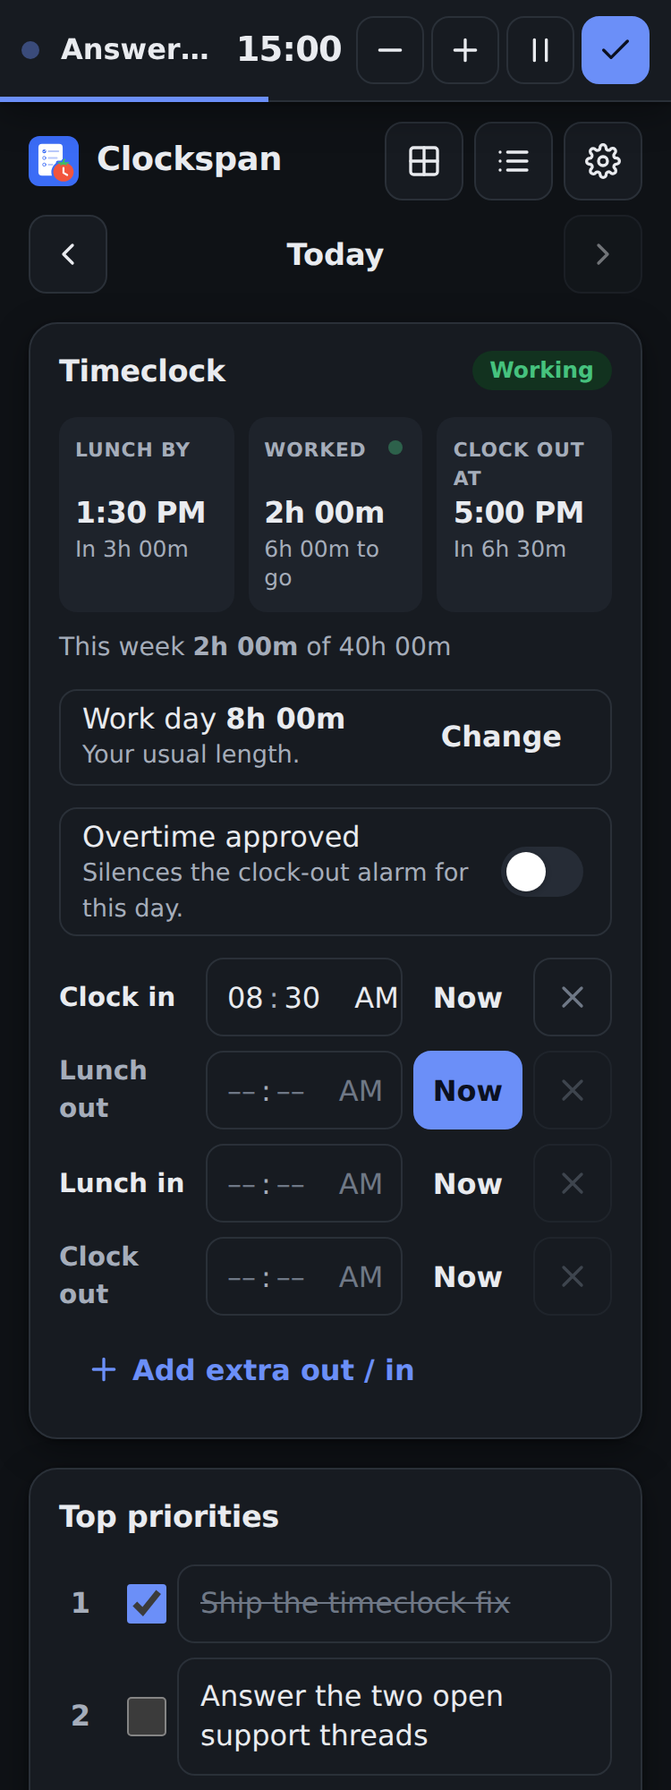
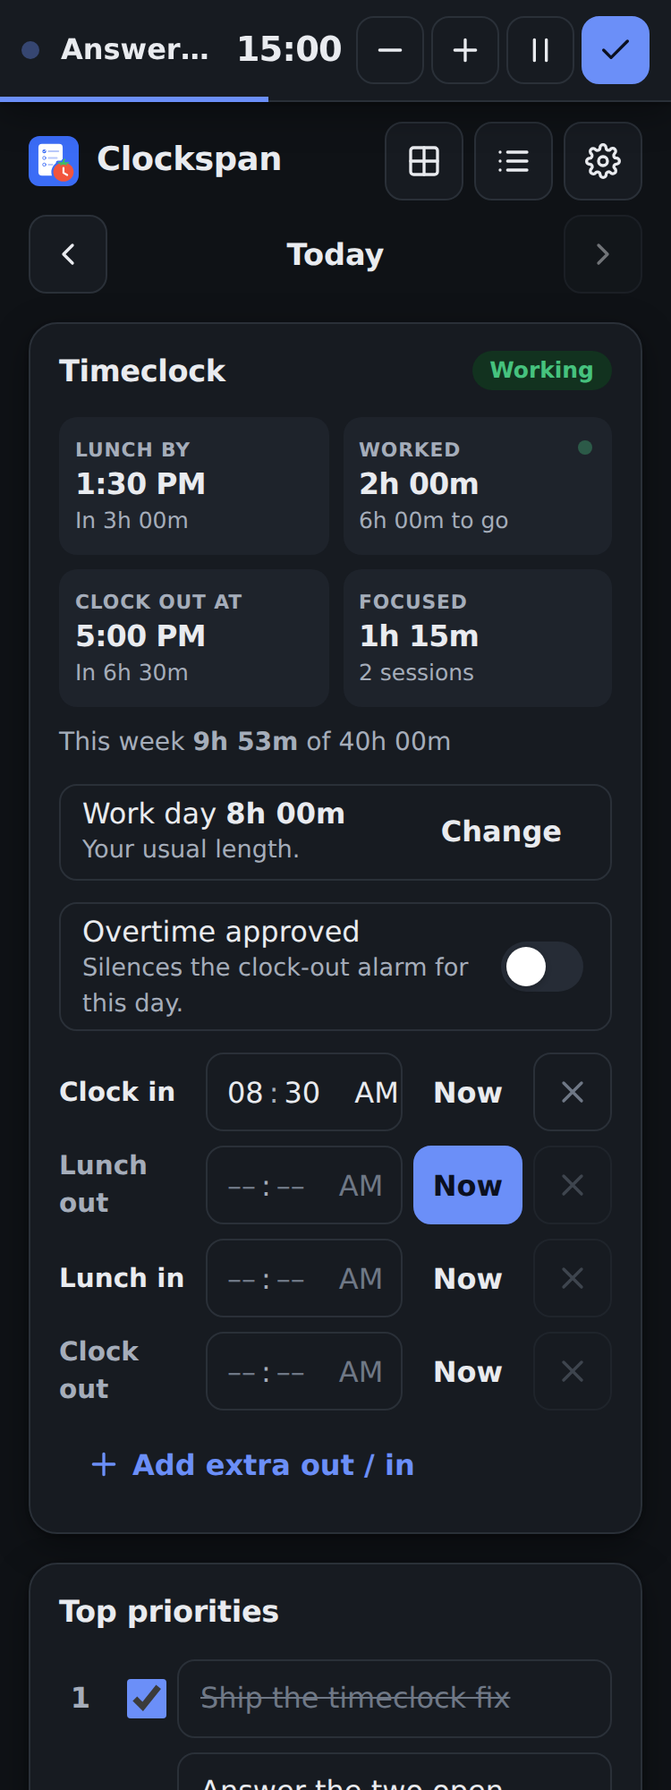
Show the Focused tile every day and add a switch to hide the lunch punches (#190)
The Focused tile shows on every day; turning meal periods off only drops Lunch by. Four tiles go two by two on a phone and four across from 760 px.

Settings -> Timeclock -> Lunch punches (default on, shown only with meal periods off) hides the Lunch out / Lunch in rows, except on a day with a lunch already punched. The rows stay in the day's data.

The overtime hints no longer promise meal alarms when meal periods are off.

Claude-Session: https://claude.ai/code/session_01BP5DhmHXDvyE8D1rqJUnm5

diff --git a/client/src/components/Timeclock.tsx b/client/src/components/Timeclock.tsx
@@ -4,13 +4,14 @@ import { useSettings } from '../hooks/useSettings';
 import { useTimeFormat } from '../hooks/useTimeFormat';
 import { unlockAudio } from '../lib/alerts';
 import { pickCelebration } from '../lib/celebrate';
-import { floorToMinute, formatDuration, plural } from '../lib/format';
-import { timeclockTiles } from '../lib/tiles';
+import { floorToMinute, formatDuration } from '../lib/format';
+import { focusTile, timeclockTiles } from '../lib/tiles';
 import {
   addPunchPair,
   clockOutPosition,
   daySettings,
   extraPairs,
+  lunchRowsShown,
   nextPunchPosition,
   removePunchPair,
   secondMealApplies,
@@ -38,7 +39,7 @@ interface Props {
   workMinutes: number | null;
   /** The week so far up to this day; null while loading. */
   week: WeekHours | null;
-  /** The day's logged focus: with the meal rules off there's no lunch deadline, so that tile shows this. */
+  /** The day's logged focus, for the Focused tile. */
   focus: { seconds: number; count: number };
   onChange: (punches: Punch[]) => void;
   onOvertimeChange: (approved: boolean) => void;
@@ -114,8 +115,9 @@ export function Timeclock({
 
   // A punch after the clock-in is expected to come after it; the time field's AM/PM guess uses that.
   const clockInAt = byPos.get(0)?.at ?? null;
+  const lunchRows = lunchRowsShown(punches, settings);
   // Today, until the day is done, the next empty row's Now is the filled button: one obvious tap.
-  const nextPos = isToday && tc.state !== 'done' ? nextPunchPosition(punches) : null;
+  const nextPos = isToday && tc.state !== 'done' ? nextPunchPosition(punches, lunchRows) : null;
   const row = (punch: Punch, label: string) => (
     <PunchRow
       key={punch.position}
@@ -163,19 +165,11 @@ export function Timeclock({
 
   return (
     <div className="timeclock">
-      <div className="tiles">
-        {!settings.mealRules ? (
-          <Tile
-            label="Focused"
-            value={formatDuration(focus.seconds)}
-            sub={focus.count === 0 ? 'No sessions yet' : `${focus.count} ${plural(focus.count, 'session')}`}
-            tone=""
-          />
-        ) : (
-          <Tile label="Lunch by" {...tiles.lunch} />
-        )}
+      <div className={settings.mealRules ? 'tiles tiles--four' : 'tiles'}>
+        {settings.mealRules && <Tile label="Lunch by" {...tiles.lunch} />}
         <Tile label="Worked" {...tiles.worked} />
         <Tile label="Clock out at" {...tiles.clockOut} />
+        <Tile label="Focused" {...focusTile(focus, isToday)} />
       </div>
 
       {celebration && (
@@ -218,7 +212,11 @@ export function Timeclock({
         <Toggle
           className="ot-row"
           label="Overtime approved"
-          hint={overtimeApproved ? 'Clock-out alarm is off for today. Meal alarms stay on.' : 'Silences the clock-out alarm for this day.'}
+          hint={
+            overtimeApproved
+              ? `Clock-out alarm is off for today.${settings.mealRules ? ' Meal alarms stay on.' : ''}`
+              : 'Silences the clock-out alarm for this day.'
+          }
           checked={overtimeApproved}
           onChange={onOvertimeChange}
         />
@@ -233,8 +231,8 @@ export function Timeclock({
       >
         {fixedRow(0, 'Clock in')}
         {pairBlock(before, 0)}
-        {fixedRow(1, 'Lunch out')}
-        {fixedRow(2, 'Lunch in')}
+        {lunchRows && fixedRow(1, 'Lunch out')}
+        {lunchRows && fixedRow(2, 'Lunch in')}
         {pairBlock(after, before.length)}
         {clockOutPos != null && fixedRow(clockOutPos, 'Clock out')}
         <button className="btn btn-ghost punch-add" onClick={addPair}>

diff --git a/client/src/lib/timeclock.test.ts b/client/src/lib/timeclock.test.ts
@@ -7,6 +7,7 @@ import {
   daySettings,
   emptyPunches,
   extraPairs,
+  lunchRowsShown,
   nextPunchPosition,
   normalizePunches,
   removePunchPair,
@@ -451,6 +452,32 @@ describe('nextPunchPosition', () => {
     expect(nextPunchPosition([])).toBeNull();
     expect(nextPunchPosition(punches([T0, null, null]))).toBe(1);
     expect(nextPunchPosition(punches([T0, T0 + 4 * H, T0 + 4.5 * H]))).toBeNull();
+  });
+
+  it('goes from the clock in to the clock out with the lunch rows hidden', () => {
+    expect(nextPunchPosition(emptyPunches(), false)).toBe(0);
+    expect(nextPunchPosition(punches([T0, null, null, null]), false)).toBe(3);
+    expect(nextPunchPosition(punches([T0, null, null, T0 + 8 * H]), false)).toBeNull();
+    // Stepped out and back: with no lunch every pair sits before the clock out.
+    expect(nextPunchPosition(punches([T0, null, null, T0 + 2 * H, null, null]), false)).toBe(4);
+    expect(nextPunchPosition(punches([T0, null, null, T0 + 2 * H, T0 + 3 * H, null]), false)).toBe(5);
+  });
+});
+
+describe('lunchRowsShown', () => {
+  const off = { mealRules: false, lunchPunches: false };
+
+  it('shows the lunch rows unless the meal periods and the lunch punches are both off', () => {
+    expect(lunchRowsShown(emptyPunches(), { mealRules: true, lunchPunches: true })).toBe(true);
+    expect(lunchRowsShown(emptyPunches(), { mealRules: true, lunchPunches: false })).toBe(true);
+    expect(lunchRowsShown(emptyPunches(), { mealRules: false, lunchPunches: true })).toBe(true);
+    expect(lunchRowsShown(emptyPunches(), off)).toBe(false);
+    expect(lunchRowsShown(punches([T0, null, null, T0 + 8 * H]), off)).toBe(false);
+  });
+
+  it('keeps them on a day with a lunch punched, so the times stay in sight', () => {
+    expect(lunchRowsShown(punches([T0, T0 + 4 * H, null, null]), off)).toBe(true);
+    expect(lunchRowsShown(punches([T0, null, T0 + 4.5 * H, null]), off)).toBe(true);
   });
 });
 

diff --git a/client/src/components/settings/TimeclockTab.tsx b/client/src/components/settings/TimeclockTab.tsx
@@ -10,10 +10,18 @@ export function TimeclockTab({ settings, set }: { settings: Settings; set: (patc
       <DurationField label="Work day" minutes={settings.workMinutes} {...SETTING_LIMITS.workMinutes} onCommit={(m) => set({ workMinutes: m })} />
       <Toggle
         label="Meal periods"
-        hint="The lunch deadline and the second meal period, with their alarms. Off for salaried or exempt work, or where other rules apply; the Lunch by tile then shows focused time."
+        hint="The lunch deadline and the second meal period, with their alarms and the Lunch by tile. Off for salaried or exempt work, or where other rules apply."
         checked={settings.mealRules}
         onChange={(v) => set({ mealRules: v })}
       />
+      {!settings.mealRules && (
+        <Toggle
+          label="Lunch punches"
+          hint="The Lunch out and Lunch in rows on the timeclock. Off hides them, except on a day with a lunch already punched."
+          checked={settings.lunchPunches}
+          onChange={(v) => set({ lunchPunches: v })}
+        />
+      )}
       {settings.mealRules && (
         <>
           <DurationField
@@ -33,7 +41,7 @@ export function TimeclockTab({ settings, set }: { settings: Settings; set: (patc
       )}
       <Toggle
         label="Overtime"
-        hint="An 'Overtime approved' switch on the timeclock and the clock-out alarm. It silences that day's clock-out alarm only; meal alarms stay on. Off where overtime doesn't apply: time past your day isn't shown as overtime."
+        hint={`An 'Overtime approved' switch on the timeclock and the clock-out alarm. It silences that day's clock-out alarm only${settings.mealRules ? '; meal alarms stay on' : ''}. Off where overtime doesn't apply: time past your day isn't shown as overtime.`}
         checked={settings.overtimeApproval}
         onChange={(v) => set({ overtimeApproval: v })}
       />

diff --git a/client/src/lib/timeclock.ts b/client/src/lib/timeclock.ts
@@ -285,11 +285,21 @@ export function extraPairs(punches: Punch[]): ExtraPair[] {
 }
 
 /**
+ * Whether the card shows the Lunch out and Lunch in rows. Only the meal periods off with
+ * Lunch punches off hides them, and never on a day with a lunch punched: the math still
+ * counts that lunch, so its times stay where they can be seen and cleared.
+ */
+export function lunchRowsShown(punches: Punch[], settings: Pick<Settings, 'mealRules' | 'lunchPunches'>): boolean {
+  if (settings.mealRules || settings.lunchPunches) return true;
+  return punches.some((p) => (p.position === LUNCH_OUT_POSITION || p.position === LUNCH_IN_POSITION) && p.at != null);
+}
+
+/**
  * The first row without a time, in the order the card shows them (clock in, pairs before
  * lunch, lunch out and in, pairs after it, clock out): the one the next "Now" is for. Null
- * once every row has a time.
+ * once every row has a time. With the lunch rows hidden (`lunchRowsShown`) they are skipped.
  */
-export function nextPunchPosition(punches: Punch[]): number | null {
+export function nextPunchPosition(punches: Punch[], lunchRows = true): number | null {
   const byPos = new Map(punches.map((p) => [p.position, p]));
   const pairs = extraPairs(punches);
   const pairRows = (beforeLunch: boolean) => pairs.filter((p) => p.beforeLunch === beforeLunch).flatMap((p) => [p.out, p.in]);
@@ -297,8 +307,7 @@ export function nextPunchPosition(punches: Punch[]): number | null {
   const order = [
     byPos.get(0),
     ...pairRows(true),
-    byPos.get(LUNCH_OUT_POSITION),
-    byPos.get(LUNCH_IN_POSITION),
+    ...(lunchRows ? [byPos.get(LUNCH_OUT_POSITION), byPos.get(LUNCH_IN_POSITION)] : []),
     ...pairRows(false),
     clockOut == null ? undefined : byPos.get(clockOut),
   ];

diff --git a/client/src/lib/tiles.test.ts b/client/src/lib/tiles.test.ts
@@ -2,7 +2,7 @@ import { describe, expect, it } from 'vitest';
 import { DEFAULT_SETTINGS } from '../../../shared/settings.js';
 import type { Punch, Settings } from '../types';
 import { addPunchPair, computeTimeclock, emptyPunches } from './timeclock';
-import { timeclockTiles, type TileOptions } from './tiles';
+import { focusTile, timeclockTiles, type TileOptions } from './tiles';
 
 const at = (h: number, m = 0) => new Date(2026, 8, 28, h, m).getTime();
 /** Punch rows with these times from position 0; the rest empty. */
@@ -103,5 +103,17 @@ describe('Clock out at', () => {
   it('marks the day complete once clocked out', () => {
     const extra = punches(addPunchPair(empty), at(8), at(12), at(12, 30), at(14), at(14, 15), at(16, 45));
     expect(tiles(extra, at(17)).clockOut).toEqual({ value: '16:45', sub: 'Day complete', tone: 'tile--accent' });
+  });
+});
+
+describe('the Focused tile', () => {
+  it("shows the day's focus time and its session count", () => {
+    expect(focusTile({ seconds: 25 * 60, count: 1 }, true)).toEqual({ value: '25m', sub: '1 session', tone: '' });
+    expect(focusTile({ seconds: 90 * 60, count: 3 }, false)).toEqual({ value: '1h 30m', sub: '3 sessions', tone: '' });
+  });
+
+  it('says no sessions yet only while the day is still going', () => {
+    expect(focusTile({ seconds: 0, count: 0 }, true).sub).toBe('No sessions yet');
+    expect(focusTile({ seconds: 0, count: 0 }, false).sub).toBe('No sessions');
   });
 });

diff --git a/server/routes/settings.test.ts b/server/routes/settings.test.ts
@@ -49,8 +49,16 @@ describe('/api/settings', () => {
     expect((await app.api.put('/api/settings', { celebrations: false })).body.celebrations).toBe(false);
     expect((await app.api.put('/api/settings', { celebrations: 'no' })).body.celebrations).toBe(false);
     expect((await app.api.put('/api/settings', { celebrations: true })).body.celebrations).toBe(true);
-    expect((await app.api.put('/api/settings', { mealRules: false, trackHours: false })).body).toMatchObject({ mealRules: false, trackHours: false });
-    expect((await app.api.put('/api/settings', { mealRules: 'no', trackHours: 1 })).body).toMatchObject({ mealRules: false, trackHours: false });
+    expect((await app.api.put('/api/settings', { mealRules: false, lunchPunches: false, trackHours: false })).body).toMatchObject({
+      mealRules: false,
+      lunchPunches: false,
+      trackHours: false,
+    });
+    expect((await app.api.put('/api/settings', { mealRules: 'no', lunchPunches: 'no', trackHours: 1 })).body).toMatchObject({
+      mealRules: false,
+      lunchPunches: false,
+      trackHours: false,
+    });
     expect((await app.api.put('/api/settings', { suggestBreaks: true })).body.suggestBreaks).toBe(true);
     expect((await app.api.put('/api/settings', { suggestBreaks: 'off' })).body.suggestBreaks).toBe(true);
     expect((await app.api.put('/api/settings', { suggestBreaks: false })).body.suggestBreaks).toBe(false);

diff --git a/client/src/styles.css b/client/src/styles.css
@@ -673,15 +673,26 @@ button {
 }
 
 /* ---------- timeclock ---------- */
-/* Three across at every width. On a phone the type shrinks instead of the tiles stacking,
+/* Three across at every width (the timeclock's four are below). On a phone the type shrinks instead of the tiles stacking,
    which put the punch rows and the priorities most of a screen further down. Each tile's
-   label, value and sub-line sit on rows shared by the three (subgrid), so a label that wraps
-   to two lines ("Clock out at" on a narrow phone) doesn't drop that tile's number below the others. */
+   label, value and sub-line sit on rows shared by the tiles in a row (subgrid), so a label that
+   wraps to two lines ("Clock out at" on a narrow phone) doesn't drop that tile's number below the others. */
 .tiles {
   display: grid;
   grid-template-columns: repeat(3, minmax(0, 1fr));
   gap: 8px;
   margin-bottom: 14px;
+}
+/* The timeclock's four (Lunch by joins the others with the meal periods on): a quarter of a
+   phone is too narrow for "10:45 AM" and its sub-line, so two by two. Four across once a
+   quarter of the card holds "12h 59m" and the live dot at the desktop size, which is 760 px. */
+.tiles--four {
+  grid-template-columns: repeat(2, minmax(0, 1fr));
+}
+@media (min-width: 760px) {
+  .tiles--four {
+    grid-template-columns: repeat(4, minmax(0, 1fr));
+  }
 }
 .tile {
   display: grid;

diff --git a/client/src/components/settings/SettingsDialog.test.tsx b/client/src/components/settings/SettingsDialog.test.tsx
@@ -106,6 +106,21 @@ describe('SettingsDialog', () => {
     expect(screen.getByRole('status', { hidden: true }).textContent).toContain(SAVE_STATUS.saved);
   });
 
+  it('offers to hide the lunch punches only with the meal periods off', async () => {
+    await renderDialog();
+    expect(screen.queryByRole('switch', { name: /Lunch punches/, hidden: true })).toBeNull();
+    expect(screen.getByText(/clock-out alarm only; meal alarms stay on\./)).toBeTruthy();
+    fireEvent.click(screen.getByRole('switch', { name: /Meal periods/, hidden: true }));
+    await settle();
+    expect(api.putSettings).toHaveBeenCalledWith({ mealRules: false });
+    expect(screen.queryByLabelText('Lunch must start within hours')).toBeNull();
+    // No meal alarms to keep on, so the Overtime hint stops promising them.
+    expect(screen.getByText(/clock-out alarm only\. Off where/)).toBeTruthy();
+    fireEvent.click(screen.getByRole('switch', { name: /Lunch punches/, hidden: true }));
+    await settle();
+    expect(api.putSettings).toHaveBeenLastCalledWith({ lunchPunches: false });
+  });
+
   it('saves one alarm field without touching the others', async () => {
     await renderDialog();
     await openTab('Alarms');

diff --git a/client/src/lib/tiles.ts b/client/src/lib/tiles.ts
@@ -1,8 +1,8 @@
 import type { AlarmSettings, Settings } from '../types';
-import { formatDuration, formatDurationCeil } from './format';
+import { formatDuration, formatDurationCeil, plural } from './format';
 import type { TimeclockResult } from './timeclock';
 
-/** One of the timeclock card's three tiles: the number, the line under it, and its colour class. */
+/** One of the timeclock card's tiles: the number, the line under it, and its colour class. */
 export interface TileView {
   value: string;
   sub: string;
@@ -87,4 +87,13 @@ export function timeclockTiles(tc: TimeclockResult, o: TileOptions): { lunch: Ti
   };
 
   return { lunch, worked, clockOut };
+}
+
+/** The Focused tile: the day's logged focus time and how many sessions it took. */
+export function focusTile(focus: { seconds: number; count: number }, isToday: boolean): TileView {
+  return {
+    value: formatDuration(focus.seconds),
+    sub: focus.count > 0 ? `${focus.count} ${plural(focus.count, 'session')}` : isToday ? 'No sessions yet' : 'No sessions',
+    tone: '',
+  };
 }

diff --git a/shared/settings.ts b/shared/settings.ts
@@ -95,6 +95,11 @@ export interface Settings {
   overtimeApproval: boolean;
   /** The lunch deadline and second meal period rules, with their alarms. Off where they don't apply (exempt work, another state). */
   mealRules: boolean;
+  /**
+   * The timeclock's Lunch out and Lunch in rows while `mealRules` is off. Off hides them on a
+   * day with no lunch punched; with the meal periods on they always show.
+   */
+  lunchPunches: boolean;
   /** Hours worked shown past the day's own tiles: the week line, the hours in History and the Clocked out sticker. */
   trackHours: boolean;
   /** Which sound each event plays; `sound` above is the master switch over all of them. */
@@ -170,6 +175,7 @@ export const DEFAULT_SETTINGS: Settings = deepFreeze({
   keepScreenAwake: true,
   overtimeApproval: true,
   mealRules: true,
+  lunchPunches: true,
   trackHours: true,
   sounds: {
     timer: 'triad',

diff --git a/server/settings.ts b/server/settings.ts
@@ -108,6 +108,7 @@ export function mergeSettings(base: Settings, patch: unknown): Settings {
     keepScreenAwake: isBool(p.keepScreenAwake) ? p.keepScreenAwake : base.keepScreenAwake,
     overtimeApproval: isBool(p.overtimeApproval) ? p.overtimeApproval : base.overtimeApproval,
     mealRules: isBool(p.mealRules) ? p.mealRules : base.mealRules,
+    lunchPunches: isBool(p.lunchPunches) ? p.lunchPunches : base.lunchPunches,
     trackHours: isBool(p.trackHours) ? p.trackHours : base.trackHours,
     sounds: mergeSounds(base.sounds, p.sounds),
     celebrations: isBool(p.celebrations) ? p.celebrations : base.celebrations,

diff --git a/README.md b/README.md
@@ -8,7 +8,7 @@
 **Clockspan** is a self-hosted, single-day focus sheet for getting through a workday with ADHD. One page: a punch-style timeclock that works out when lunch is due and when the day ends, the few things that would make today a win, a focus timer that logs what you did, and a retrospective that puts the plan next to what happened. Every day is saved; alarms fire as deadlines approach. Runs as one Docker container with a SQLite file; works on phones and installs to the Home Screen.
 
 <p align="center">
-  <img src="docs/screenshots/sheet-phone-light.png" width="300" alt="The sheet on a phone, light mode: running timer bar, timeclock with the lunch-by and clock-out tiles, and today's priorities">
+  <img src="docs/screenshots/sheet-phone-light.png" width="300" alt="The sheet on a phone, light mode: running timer bar, timeclock with the lunch-by, worked, clock-out and focused tiles, and today's priorities">
   &nbsp;&nbsp;
   <img src="docs/screenshots/sheet-phone-dark.png" width="300" alt="The same sheet in dark mode">
 </p>
@@ -262,7 +262,7 @@ Going from `none` to `oidc` works the same way. Sign in through your provider on
 
 ## Using it
 
-- **Timeclock.** Tap **Now** on *Clock in* when you start. The *Lunch by* tile counts down; punch *Lunch out* / *Lunch in* around your break, and *Clock out* when you leave. Clocking out ends the day, even if you left early. A half day, or a longer one? **Work day → Change** on the card sets this day's length (*Half day*, back to *Usual*, or any length), and the clock-out time, the alarms, the lunch rule and History go by it. Under the tiles, *This week* adds up Monday to the day on screen against *Settings → Timeclock → Work week* (40 hours by default; 0 hides the line). To enter a time by hand, click the hour and type: `0730` moves through hour and minute on its own, fills in AM or PM (morning for 5–11, afternoon for 12 and 1–4; a punch after your clock-in stays after it) and saves as soon as the last part is in; press `a` or `p`, or ↑/↓ on any part, to change it. A half-typed time is dropped when you click away, so what the row shows is what is stored. Times follow your browser's clock; *Settings → Timeclock → Time format* forces 12-hour or 24-hour. Need to step out for an appointment? **Add extra out / in** for as many pairs as you need. A pair you add before lunch is punched sits above lunch; otherwise it sits below. Your projected *Clock out at* accounts for everything. Came back after clocking out? Tap **Add extra out / in**: your clock-out time becomes that pair's *Out*, tap **Now** on its *In*, and you get a fresh *Clock out* row. The day-complete line comes with a burst of emoji and a sound; reaching the work week on today's sheet gets a smaller burst and its own sound, and so do ticking a priority and saving *Plan tomorrow* (their sounds are off until you pick one): *Settings → Sheet → Celebrations* turns the bursts off (so does the system's reduce-motion setting), and *Settings → Alarms → Sounds* picks the sounds.
+- **Timeclock.** Tap **Now** on *Clock in* when you start. The *Lunch by* tile counts down, and *Focused* adds up the day's focus sessions; punch *Lunch out* / *Lunch in* around your break, and *Clock out* when you leave. Clocking out ends the day, even if you left early. A half day, or a longer one? **Work day → Change** on the card sets this day's length (*Half day*, back to *Usual*, or any length), and the clock-out time, the alarms, the lunch rule and History go by it. Under the tiles, *This week* adds up Monday to the day on screen against *Settings → Timeclock → Work week* (40 hours by default; 0 hides the line). To enter a time by hand, click the hour and type: `0730` moves through hour and minute on its own, fills in AM or PM (morning for 5–11, afternoon for 12 and 1–4; a punch after your clock-in stays after it) and saves as soon as the last part is in; press `a` or `p`, or ↑/↓ on any part, to change it. A half-typed time is dropped when you click away, so what the row shows is what is stored. Times follow your browser's clock; *Settings → Timeclock → Time format* forces 12-hour or 24-hour. Need to step out for an appointment? **Add extra out / in** for as many pairs as you need. A pair you add before lunch is punched sits above lunch; otherwise it sits below. Your projected *Clock out at* accounts for everything. Came back after clocking out? Tap **Add extra out / in**: your clock-out time becomes that pair's *Out*, tap **Now** on its *In*, and you get a fresh *Clock out* row. The day-complete line comes with a burst of emoji and a sound; reaching the work week on today's sheet gets a smaller burst and its own sound, and so do ticking a priority and saving *Plan tomorrow* (their sounds are off until you pick one): *Settings → Sheet → Celebrations* turns the bursts off (so does the system's reduce-motion setting), and *Settings → Alarms → Sounds* picks the sounds.
 - **Top priorities.** A row can only be ticked once it has text. **Add priority** adds a row; past three (or your configured count) it asks first, gently. With some rows ticked, the notice lists what's done and the buttons read *Add anyway / Finish what's open*; with everything ticked, *Add a bonus / Stop here*. Rows beyond your default can be removed with the ×. *Settings → Sheet → Priorities → Rows per day* sets how many rows a new day starts with.
 - **Timer.** Type what you're about to do, tap 15/25/50. Or tap one of the *Working on* chips (your open priorities) and the session is linked to that row. New task from your manager? Type it, tick **Also add to today's priorities**, start: the first empty row fills in and the session is linked. The bar at the top follows you around; **−5m / +5m** adjust the current session, **Pause** stops the clock for a break (the time away isn't logged, and a pause left for an hour closes the session where it began), **Finish** ends it early and logs the real duration. Reaching zero chimes and the countdown goes negative while it waits: **+5m** keeps going, and **Finish** logs the planned length, or, once you are a minute or more over, asks whether to log the planned length or the time you actually worked; left unanswered for ten minutes it logs the planned length on its own. Timers keep correct time across reloads and phone sleep because the start time lives on the server.
 - **Day log.** Rows show a small number when the session was for a priority. Tap a label to edit it, or to change which priority it was for (*Unplanned* unlinks it). A break row shows how long you rested (**End break** on the timer card logs a short one as it was), and the trash button removes one you didn't mean to take.
@@ -272,7 +272,7 @@ Going from `none` to `oidc` works the same way. Sign in through your provider on
   - **Second meal period.** On a day heading past 10 hours worked (overtime approved, already over your target, or a target longer than 10 hours) the sheet shows when your 10th hour ends and alarms before it. A day of exactly 10 hours, like a 4×10 schedule, owes no second meal and gets no alarm. Any break after lunch counts as taken. Adjust the threshold under *Settings → Timeclock*, or turn the alarm off if you've waived it.
   - **Overtime approved.** A switch on the timeclock card, and a button on the clock-out alarm banner, that silences that day's clock-out alarm. Meal alarms stay on. If overtime doesn't apply to you, turn off *Settings → Timeclock → Overtime*: both disappear, and time past your day reads as that instead of a red *Over by*.
   - **About the defaults.** Lunch within 5 hours, a second meal period after 10 hours worked, and keeping meal alarms on during approved overtime all follow California labor rules, because that's where the author works. Other states and countries differ. Everything is adjustable in Settings, and pull requests that add presets or rules for other places are welcome.
-  - **Salaried or exempt.** *Settings → Timeclock* has a switch for each part that may not apply. *Meal periods* off: no lunch deadline or second meal period and no alarms for them, and the *Lunch by* tile shows the day's focused time instead (a lunch you punch still counts). *Overtime* off: see above. *Show hours* off: no week line, no hours on the History calendar or in the review, and no *Clocked out* sticker. Don't want to punch at all? Hide the timeclock card under *Customize*; priorities, the timer, breaks and the retrospective work without it.
+  - **Salaried or exempt.** *Settings → Timeclock* has a switch for each part that may not apply. *Meal periods* off: no lunch deadline or second meal period, no alarms for them and no *Lunch by* tile (a lunch you punch still counts); *Lunch punches* off as well hides the *Lunch out* / *Lunch in* rows, except on a day that already has a lunch punched. *Overtime* off: see above. *Show hours* off: no week line, no hours on the History calendar or in the review, and no *Clocked out* sticker. Don't want to punch at all? Hide the timeclock card under *Customize*; priorities, the timer, breaks and the retrospective work without it.
 - **Sticker chart.** Off by default: turn it on under *Settings → Sheet → History*. Every day on the History calendar then wears a sticker for each thing it did (clocked out, lunch taken, all priorities done, a focus session logged, retrospective reviewed) instead of its hours, with the month's count on top and a day that earned all five picked out. With *Show hours* off there's no clocked-out sticker, and four make a full day. The legend chips count each kind; tap one to show only that sticker, tap again for all of them. Today updates as you go. Hover a sticker for what it was for.
 - **Layout.** Tap **Customize** to drag cards (long-press on phones), use ▲/▼, or hide a card. Hidden cards appear in a strip at the bottom while customizing. *Settings → Sheet → Layout → Reset to default* restores everything.
 - **Settings.** Five tabs: *Timeclock* (day length; meal periods, overtime and hours, each with a switch and its own lengths; time format), *Alarms* (per-alarm rules, sound, notifications, a sound per event with a Test button), *Sheet* (theme, priorities, timer and break lengths, break suggestions, celebrations, the sticker chart and weekends on the calendar, layout), *Data* (old-day cleanup) and *Account* (local accounts only). **Reset all settings**, at the bottom of *Data*, puts every setting back to its default; days, punches and sessions are untouched.
